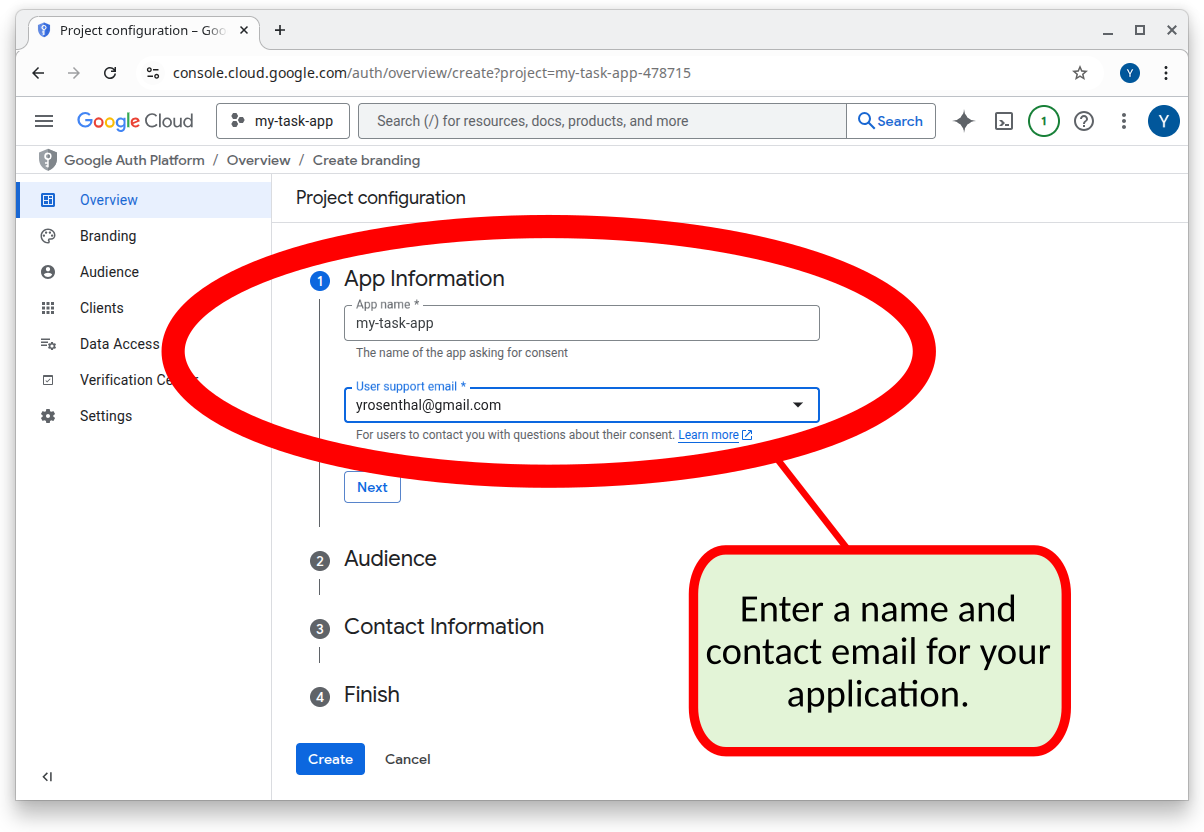
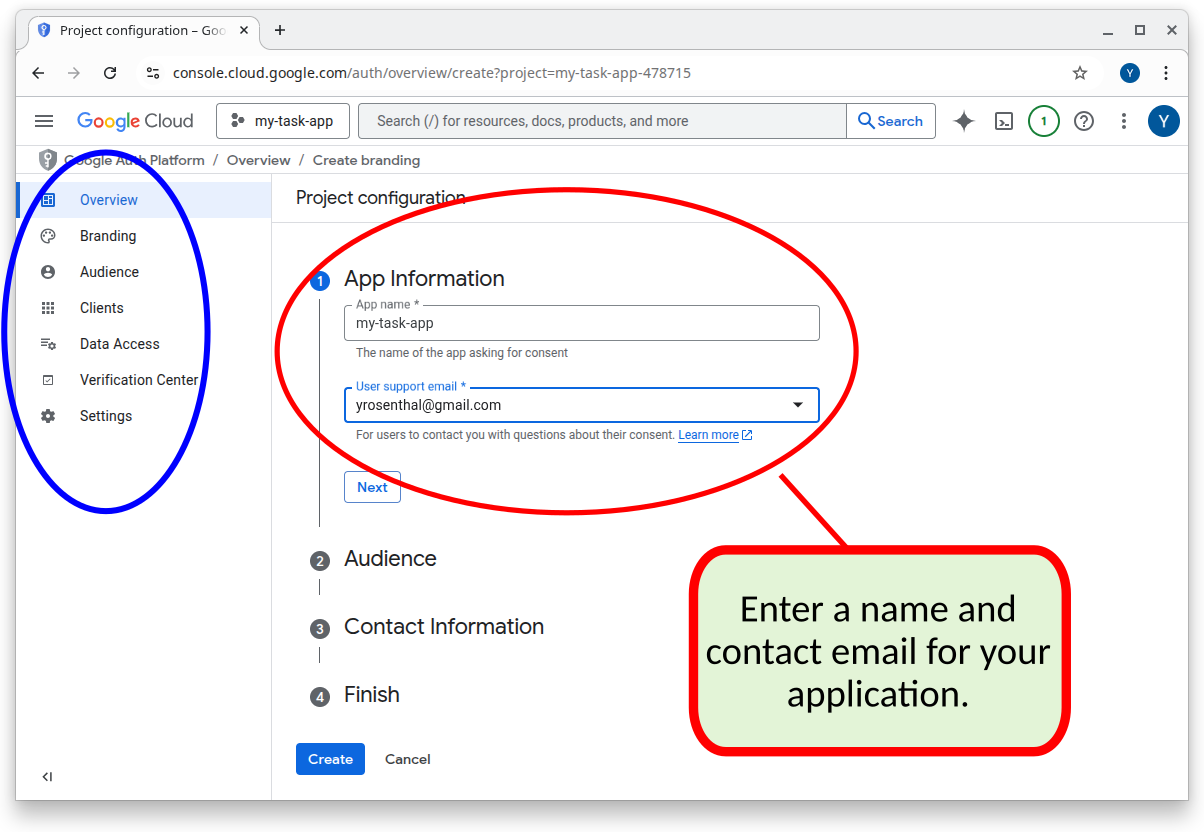
fix google oauth instructions

diff --git a/001160-tutorial-googleOauth-v001.html b/001160-tutorial-googleOauth-v001.html
@@ -464,9 +464,22 @@ ul.task-list li input[type="checkbox"] {
    
   <ul>
   <li><a href="#create-a-google-cloud-project" id="toc-create-a-google-cloud-project" class="nav-link active" data-scroll-target="#create-a-google-cloud-project"><span class="header-section-number">22.1</span> Create a Google Cloud Project</a></li>
-  <li><a href="#configure-the-oauth-consent-screen" id="toc-configure-the-oauth-consent-screen" class="nav-link" data-scroll-target="#configure-the-oauth-consent-screen"><span class="header-section-number">22.2</span> Configure the OAuth Consent Screen</a></li>
-  <li><a href="#get-your-oauth-credentials" id="toc-get-your-oauth-credentials" class="nav-link" data-scroll-target="#get-your-oauth-credentials"><span class="header-section-number">22.3</span> Get Your OAuth Credentials</a></li>
-  <li><a href="#configure-google-auth-in-supabase" id="toc-configure-google-auth-in-supabase" class="nav-link" data-scroll-target="#configure-google-auth-in-supabase"><span class="header-section-number">22.4</span> Configure Google Auth in Supabase</a></li>
+  <li><a href="#configure-the-oauth-consent-screen" id="toc-configure-the-oauth-consent-screen" class="nav-link" data-scroll-target="#configure-the-oauth-consent-screen"><span class="header-section-number">22.2</span> Configure the OAuth Consent Screen</a>
+  <ul class="collapse">
+  <li><a href="#googleOauth-1stTime" id="toc-googleOauth-1stTime" class="nav-link" data-scroll-target="#googleOauth-1stTime"><span class="header-section-number">22.2.1</span> First time setting up Google OAuth</a></li>
+  <li><a href="#googleOauth-2ndTime" id="toc-googleOauth-2ndTime" class="nav-link" data-scroll-target="#googleOauth-2ndTime"><span class="header-section-number">22.2.2</span> If you’ve started to setup Google OAuth before</a></li>
+  </ul></li>
+  <li><a href="#add-your-basic-app-info" id="toc-add-your-basic-app-info" class="nav-link" data-scroll-target="#add-your-basic-app-info"><span class="header-section-number">22.3</span> Add your basic app info:</a>
+  <ul class="collapse">
+  <li><a href="#app-name" id="toc-app-name" class="nav-link" data-scroll-target="#app-name"><span class="header-section-number">22.3.1</span> App name</a></li>
+  <li><a href="#user-support-email" id="toc-user-support-email" class="nav-link" data-scroll-target="#user-support-email"><span class="header-section-number">22.3.2</span> User support email</a></li>
+  <li><a href="#authorized-domains" id="toc-authorized-domains" class="nav-link" data-scroll-target="#authorized-domains"><span class="header-section-number">22.3.3</span> Authorized domains</a></li>
+  <li><a href="#audience" id="toc-audience" class="nav-link" data-scroll-target="#audience"><span class="header-section-number">22.3.4</span> Audience</a></li>
+  <li><a href="#developer-contact-information" id="toc-developer-contact-information" class="nav-link" data-scroll-target="#developer-contact-information"><span class="header-section-number">22.3.5</span> Developer Contact Information</a></li>
+  <li><a href="#click-save" id="toc-click-save" class="nav-link" data-scroll-target="#click-save"><span class="header-section-number">22.3.6</span> Click “Save”</a></li>
+  </ul></li>
+  <li><a href="#get-your-oauth-credentials" id="toc-get-your-oauth-credentials" class="nav-link" data-scroll-target="#get-your-oauth-credentials"><span class="header-section-number">22.4</span> Get Your OAuth Credentials</a></li>
+  <li><a href="#configure-google-auth-in-supabase" id="toc-configure-google-auth-in-supabase" class="nav-link" data-scroll-target="#configure-google-auth-in-supabase"><span class="header-section-number">22.5</span> Configure Google Auth in Supabase</a></li>
   </ul>
 </nav>
     </div>
@@ -513,12 +526,13 @@ Note
 <section id="create-a-google-cloud-project" class="level2" data-number="22.1">
 <h2 data-number="22.1" class="anchored" data-anchor-id="create-a-google-cloud-project"><span class="header-section-number">22.1</span> Create a Google Cloud Project</h2>
 <ol type="1">
-<li><p>Go to <a href="https://console.cloud.google.com/" class="uri">https://console.cloud.google.com/</a> and login with your google userid and password. Then click “select a project”.</p>
-<p><a href="images/googleCloud-00005-firstProject.png" class="lightbox" data-gallery="quarto-lightbox-gallery-1"><img src="images/googleCloud-00005-firstProject.png" class="img-fluid" width="300"></a></p></li>
-<li><p>Click <strong>Create Project</strong> and give it a clear name</p>
+<li><p>Go to <a href="https://console.cloud.google.com/" class="uri">https://console.cloud.google.com/</a> and login with your google userid and password.</p>
+<p><a href="images/googleCloud-00005-firstProject.png" class="lightbox" data-gallery="quarto-lightbox-gallery-1"><img src="images/googleCloud-00005-firstProject.png" class="img-fluid" width="300"></a></p>
+<p>The rectangle in the upper left corner shows the project you are working on. If you’ve never used google cloud the box will say “Select a project” (as it does in the screenshot.) Click on the rectangle to select the project you want. See next step to create a new project.</p></li>
+<li><p>To create a new project, click <strong>Create Project</strong> and give it a clear name</p>
 <p><a href="images/googleCloud-00007-newProject.png" class="lightbox" data-gallery="quarto-lightbox-gallery-2"><img src="images/googleCloud-00007-newProject.png" class="img-fluid" width="300"></a></p></li>
 <li><p>Enter a name for your project and click the create button.</p>
-<p><a href="images/googleCloud-00020-createNewProject.png" class="lightbox" data-gallery="quarto-lightbox-gallery-3"><img src="images/googleCloud-00020-createNewProject.png" class="img-fluid" width="300"></a></p></li>
+<p><a href="images/googleCloud-00020-createNewProject2.png" class="lightbox" data-gallery="quarto-lightbox-gallery-3"><img src="images/googleCloud-00020-createNewProject2.png" class="img-fluid" width="300"></a></p></li>
 <li><p>Navigate to <strong>APIs &amp; Services → Credentials</strong>.</p>
 <p><a href="images/googleCloud-00030-ApisAndServices.png" class="lightbox" data-gallery="quarto-lightbox-gallery-4"><img src="images/googleCloud-00030-ApisAndServices.png" class="img-fluid" width="300"></a></p>
 <p><a href="images/googleCloud-00040-ApisAndServices-credentials.png" class="lightbox" data-gallery="quarto-lightbox-gallery-5"><img src="images/googleCloud-00040-ApisAndServices-credentials.png" class="img-fluid" width="300"></a></p></li>
@@ -529,9 +543,28 @@ Note
 </section>
 <section id="configure-the-oauth-consent-screen" class="level2" data-number="22.2">
 <h2 data-number="22.2" class="anchored" data-anchor-id="configure-the-oauth-consent-screen"><span class="header-section-number">22.2</span> Configure the OAuth Consent Screen</h2>
-<ol type="1">
-<li><p>Continue as shown below or start again from <strong>APIs &amp; Services → OAuth consent screen</strong>.</p>
-<p>This step can be accomplished in one of two ways. Read the following “Notes”. ::: {.callout-note} If you followed all of the above steps, you should see the following screen. Click as shown below. (However, if you took a break from what you were doing you can continue by going to back to <a href="https://console.cloud.google.com/" class="uri">https://console.cloud.google.com/</a> and clicking on APIs &amp; Services as shown in the next NOTE. :::</p>
+<p>The flow takes a slightly different path if you’ve never setup Google OAuth for this project or if you have started to set it up before.</p>
+<ul>
+<li><p>If this is the first time you’re setting up Google OAuth use the <a href="#googleOauth-1stTime">steps shown below</a>.</p></li>
+<li><p>If you started to setup Google OAuth below - <a href="#googleOauth-2ndTime">skip to the next section.</a></p></li>
+</ul>
+<section id="googleOauth-1stTime" class="level3" data-number="22.2.1">
+<h3 data-number="22.2.1" class="anchored" data-anchor-id="googleOauth-1stTime"><span class="header-section-number">22.2.1</span> First time setting up Google OAuth</h3>
+<p>Continue as shown below or start again from <strong>APIs &amp; Services → OAuth consent screen</strong>.</p>
+<p>This step can be accomplished in one of two ways. Read the following “Note”.</p>
+<div class="callout callout-style-default callout-note callout-titled">
+<div class="callout-header d-flex align-content-center">
+<div class="callout-icon-container">
+<i class="callout-icon"></i>
+</div>
+<div class="callout-title-container flex-fill">
+Note
+</div>
+</div>
+<div class="callout-body-container callout-body">
+<p>If you followed all of the above steps, you should see the following screen. Click as shown below. (However, if you took a break from what you were doing you can continue by going to back to <a href="https://console.cloud.google.com/" class="uri">https://console.cloud.google.com/</a> and clicking on APIs &amp; Services as shown in the next NOTE.</p>
+</div>
+</div>
 <p><a href="images/googCld-00060-ApisAndServices-oauthConsentScreen.png" class="lightbox" data-gallery="quarto-lightbox-gallery-7"><img src="images/googCld-00060-ApisAndServices-oauthConsentScreen.png" class="img-fluid" width="300"></a></p>
 <p><a href="images/googCld-00070-ApisAndServices-oauthConsentScreen-getStarted.png" class="lightbox" data-gallery="quarto-lightbox-gallery-8"><img src="images/googCld-00070-ApisAndServices-oauthConsentScreen-getStarted.png" class="img-fluid" width="300"></a></p>
 <div class="callout callout-style-default callout-note callout-titled">
@@ -548,32 +581,73 @@ Note
 </div>
 </div>
 <p><a href="images/googleCloud-00030-ApisAndServices.png" class="lightbox" data-gallery="quarto-lightbox-gallery-9"><img src="images/googleCloud-00030-ApisAndServices.png" class="img-fluid" width="300"></a></p>
-<p><a href="images/googCld-00060-ApisAndServices-oauthConsentScreen2.png" class="lightbox" data-gallery="quarto-lightbox-gallery-10"><img src="images/googCld-00060-ApisAndServices-oauthConsentScreen2.png" class="img-fluid" width="300"></a> <a href="images/googCld-00090-ApisAndServices-oauthConsentScreen3.png" class="lightbox" data-gallery="quarto-lightbox-gallery-11"><img src="images/googCld-00090-ApisAndServices-oauthConsentScreen3.png" class="img-fluid" width="300"></a></p></li>
-<li><p>Add your basic app info:</p>
-<ul>
-<li><p>App name</p></li>
-<li><p>User support email</p></li>
-</ul>
-<p><a href="images/googCld-00100-appInfo.png" class="lightbox" data-gallery="quarto-lightbox-gallery-12"><img src="images/googCld-00100-appInfo.png" class="img-fluid" width="300"></a></p></li>
-<li><p>Under “Audience” choose <strong>External</strong></p>
-<p>This will allow you app to be viewed from anywhere in the world. However, your app must undergo review by Google before being allowed to use Google OAuth2 externally. Until then you can setup “test users” with google accounts. Only the specified “test users” will be allowed to “sign in with google” until your app has been reviewed by Google.</p>
-<p>You will setup the test users laters.</p>
-<p><strong>NOTE:</strong> You can only choose “Internal” if you’ve setup an organization with Google.</p></li>
-<li><p>Under <strong>Authorized domains</strong>, add the domain used by your Supabase project.</p></li>
-<li><p>Under “Contact Information” specify an email address for Google to contact you for technical issues.</p></li>
-<li><p>Save and continue through the remaining steps.</p></li>
+<p><a href="images/googCld-00060-ApisAndServices-oauthConsentScreen2.png" class="lightbox" data-gallery="quarto-lightbox-gallery-10"><img src="images/googCld-00060-ApisAndServices-oauthConsentScreen2.png" class="img-fluid" width="300"></a> <a href="images/googCld-00090-ApisAndServices-oauthConsentScreen3.png" class="lightbox" data-gallery="quarto-lightbox-gallery-11"><img src="images/googCld-00090-ApisAndServices-oauthConsentScreen3.png" class="img-fluid" width="300"></a></p>
+</section>
+<section id="googleOauth-2ndTime" class="level3" data-number="22.2.2">
+<h3 data-number="22.2.2" class="anchored" data-anchor-id="googleOauth-2ndTime"><span class="header-section-number">22.2.2</span> If you’ve started to setup Google OAuth before</h3>
+<ol type="1">
+<li><p>Navigate back to <a href="https://console.cloud.google.com/" class="uri">https://console.cloud.google.com/</a> and click on APIs &amp; Services as shown below.</p>
+<p><a href="images/googleCloud-00030-ApisAndServices.png" class="lightbox" data-gallery="quarto-lightbox-gallery-12"><img src="images/googleCloud-00030-ApisAndServices.png" class="img-fluid" width="300"></a></p></li>
+<li><p>Then click on OAuth Consent Screen</p>
+<p><a href="images/googCld-00060-ApisAndServices-oauthConsentScreen2.png" class="lightbox" data-gallery="quarto-lightbox-gallery-13"><img src="images/googCld-00060-ApisAndServices-oauthConsentScreen2.png" class="img-fluid" width="300"></a></p></li>
 </ol>
 </section>
-<section id="get-your-oauth-credentials" class="level2" data-number="22.3">
-<h2 data-number="22.3" class="anchored" data-anchor-id="get-your-oauth-credentials"><span class="header-section-number">22.3</span> Get Your OAuth Credentials</h2>
+</section>
+<section id="add-your-basic-app-info" class="level2" data-number="22.3">
+<h2 data-number="22.3" class="anchored" data-anchor-id="add-your-basic-app-info"><span class="header-section-number">22.3</span> Add your basic app info:</h2>
+<p>Whether this is the first time you are configuring Google OAuth, you should see one of the screens similar to those shown below.<em><em>NOTE</em> that if you have already started to configure Google OAuth before, you may need to click on the <strong>Branding</strong> option in the left hand menu (2nd choice from the top- see the blue oval in the picture). </em></p>
+<p>If you don’t see the info mentioned below, click on the different menu choices on the left hand side to search for where to enter the info below. Google often updates their website and the exact location for the info may have mooved by the time you read this.</p>
+<p>The information that you fill out on this screen will affect what the users see when they try to “login with google”</p>
+<div class="quarto-figure quarto-figure-center">
+<figure class="figure">
+<p><a href="images/googCld-00100-appInfo.png" class="lightbox" data-gallery="quarto-lightbox-gallery-14" title="You may see this"><img src="images/googCld-00100-appInfo.png" class="img-fluid figure-img" width="300" alt="You may see this"></a></p>
+<figcaption>You may see this</figcaption>
+</figure>
+</div>
+<div class="quarto-figure quarto-figure-center">
+<figure class="figure">
+<p><a href="images/googCld-00150-appInfo.png" class="lightbox" data-gallery="quarto-lightbox-gallery-15" title="or may see this"><img src="images/googCld-00150-appInfo.png" class="img-fluid figure-img" width="300" alt="or may see this"></a></p>
+<figcaption>or may see this</figcaption>
+</figure>
+</div>
+<section id="app-name" class="level3" data-number="22.3.1">
+<h3 data-number="22.3.1" class="anchored" data-anchor-id="app-name"><span class="header-section-number">22.3.1</span> App name</h3>
+<p>A name for your app (users will see this)</p>
+</section>
+<section id="user-support-email" class="level3" data-number="22.3.2">
+<h3 data-number="22.3.2" class="anchored" data-anchor-id="user-support-email"><span class="header-section-number">22.3.2</span> User support email</h3>
+<p>email for users to contact you with questions</p>
+</section>
+<section id="authorized-domains" class="level3" data-number="22.3.3">
+<h3 data-number="22.3.3" class="anchored" data-anchor-id="authorized-domains"><span class="header-section-number">22.3.3</span> Authorized domains</h3>
+<p>Under <strong>Authorized domains</strong>, add the domain used by your Supabase project. For example: <strong><em>bysrsyzsihcpsomfkyja.supabase.co</em></strong> You can get this from your Supabase dashboard. If you have been following this tutorial in order this info should also be in the .env.local file if you have in your top level folder for your project.</p>
+</section>
+<section id="audience" class="level3" data-number="22.3.4">
+<h3 data-number="22.3.4" class="anchored" data-anchor-id="audience"><span class="header-section-number">22.3.4</span> Audience</h3>
+<p>Under “Audience” choose <strong>External</strong></p>
+<p>This will allow you app to be viewed from anywhere in the world. However, your app must undergo review by Google before being allowed to use Google OAuth2 externally. Until then you can setup “test users” with google accounts. Only the specified “test users” will be allowed to “sign in with google” until your app has been reviewed by Google.</p>
+<p>You will setup the test users later.</p>
+<p><strong>NOTE:</strong> You can only choose “Internal” if you’ve setup an organization with Google.</p>
+</section>
+<section id="developer-contact-information" class="level3" data-number="22.3.5">
+<h3 data-number="22.3.5" class="anchored" data-anchor-id="developer-contact-information"><span class="header-section-number">22.3.5</span> Developer Contact Information</h3>
+<p>Type an email address for Google to contact you for technical issues.</p>
+</section>
+<section id="click-save" class="level3" data-number="22.3.6">
+<h3 data-number="22.3.6" class="anchored" data-anchor-id="click-save"><span class="header-section-number">22.3.6</span> Click “Save”</h3>
+<p>Save and continue through the remaining steps.</p>
+</section>
+</section>
+<section id="get-your-oauth-credentials" class="level2" data-number="22.4">
+<h2 data-number="22.4" class="anchored" data-anchor-id="get-your-oauth-credentials"><span class="header-section-number">22.4</span> Get Your OAuth Credentials</h2>
 <ol type="1">
 <li><p>Return to <strong>APIs &amp; Services → Credentials</strong>.</p>
 <p>Click as below to create an <strong>OAuth 2.0 Client ID</strong>.</p>
-<p><a href="images/googCld-00110-clientId1.png" class="lightbox" data-gallery="quarto-lightbox-gallery-13"><img src="images/googCld-00110-clientId1.png" class="img-fluid" width="300"></a></p></li>
+<p><a href="images/googCld-00110-clientId1.png" class="lightbox" data-gallery="quarto-lightbox-gallery-16"><img src="images/googCld-00110-clientId1.png" class="img-fluid" width="300"></a></p></li>
 <li><p>Choose <strong>Web application</strong> as the application type.</p>
-<p><a href="images/googCld-00120-clientId2-webApp.png" class="lightbox" data-gallery="quarto-lightbox-gallery-14"><img src="images/googCld-00120-clientId2-webApp.png" class="img-fluid" width="300"></a> You need to give a name to the application (Web client 1” in the screenshot below). This name is only used internal to the Google Cloud environment to refer to the application that you are setting up. This name will not appear anywhere to your users.</p>
+<p><a href="images/googCld-00120-clientId2-webApp.png" class="lightbox" data-gallery="quarto-lightbox-gallery-17"><img src="images/googCld-00120-clientId2-webApp.png" class="img-fluid" width="300"></a> You need to give a name to the application (Web client 1” in the screenshot below). This name is only used internal to the Google Cloud environment to refer to the application that you are setting up. This name will not appear anywhere to your users.</p>
 <p>You then need to setup the URIs (i.e.&nbsp;URLs) that the Supabase servers will be contacted with from Google to indicate that the login was successful. You need to get this info from your Supabase configuration. This info was also saved in your .env.local file</p>
-<p><a href="images/googCld-00130-clientId3-redirectUris.png" class="lightbox" data-gallery="quarto-lightbox-gallery-15"><img src="images/googCld-00130-clientId3-redirectUris.png" class="img-fluid" width="300"></a></p></li>
+<p><a href="images/googCld-00130-clientId3-redirectUris.png" class="lightbox" data-gallery="quarto-lightbox-gallery-18"><img src="images/googCld-00130-clientId3-redirectUris.png" class="img-fluid" width="300"></a></p></li>
 <li><p>Add your Supabase callback URL under <strong>Authorized redirect URIs</strong>: <code>https://[your-project-ref].supabase.co/auth/v1/callback</code></p>
 <p>You can get <strong>your-project-ref</strong> by doing one of the following:</p>
 <ul>
@@ -590,11 +664,11 @@ Note
 </ul></li>
 <li><p>Click “Create button”</p>
 <p>After creation, copy your <strong>Client ID</strong> and <strong>Client Secret</strong>. You WILL NOT BE ABLE TO GET THESE CODES AGAIN FROM GOOGLE. Store these codes in a safe place. DO NOT store these code in any files that will be committed to git.</p>
-<p><a href="images/googCld-00140-oauthClientKey-created.png" class="lightbox" data-gallery="quarto-lightbox-gallery-16"><img src="images/googCld-00140-oauthClientKey-created.png" class="img-fluid" width="300"></a></p></li>
+<p><a href="images/googCld-00140-oauthClientKey-created.png" class="lightbox" data-gallery="quarto-lightbox-gallery-19"><img src="images/googCld-00140-oauthClientKey-created.png" class="img-fluid" width="300"></a></p></li>
 </ol>
 </section>
-<section id="configure-google-auth-in-supabase" class="level2" data-number="22.4">
-<h2 data-number="22.4" class="anchored" data-anchor-id="configure-google-auth-in-supabase"><span class="header-section-number">22.4</span> Configure Google Auth in Supabase</h2>
+<section id="configure-google-auth-in-supabase" class="level2" data-number="22.5">
+<h2 data-number="22.5" class="anchored" data-anchor-id="configure-google-auth-in-supabase"><span class="header-section-number">22.5</span> Configure Google Auth in Supabase</h2>
 <ol type="1">
 <li>Open your <strong>Supabase dashboard</strong>.</li>
 <li>Navigate to <strong>Authentication → Providers</strong>.</li>
